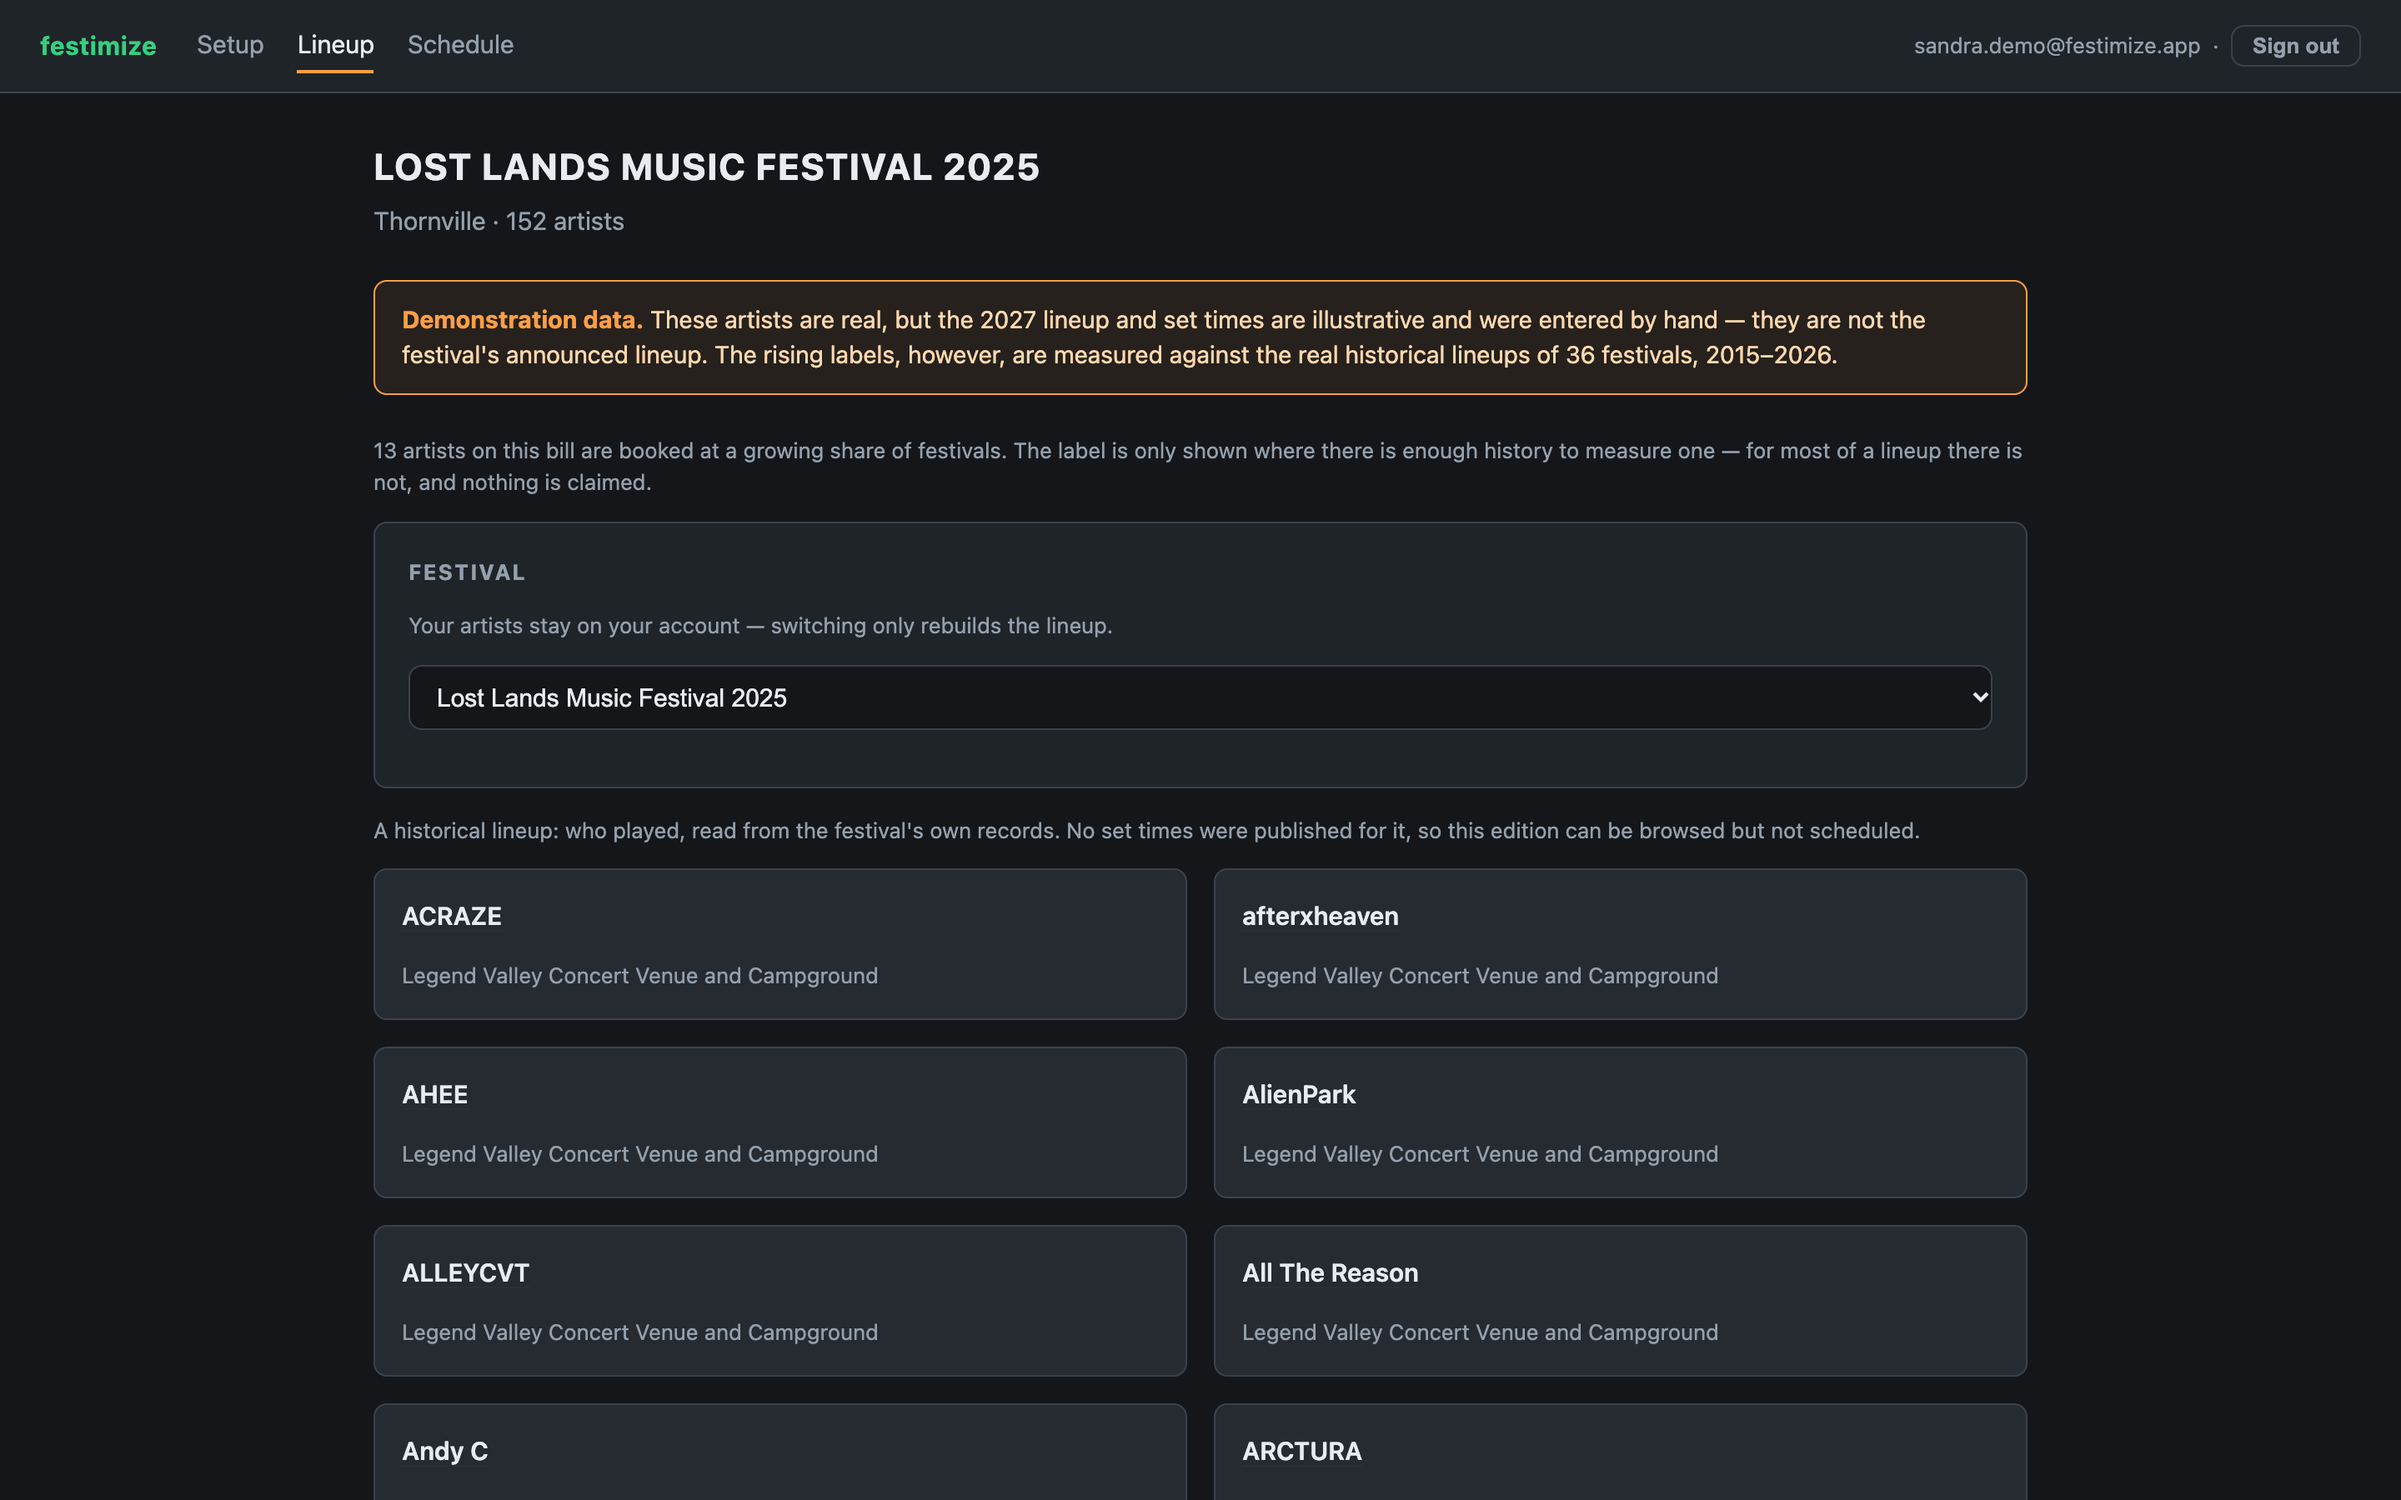
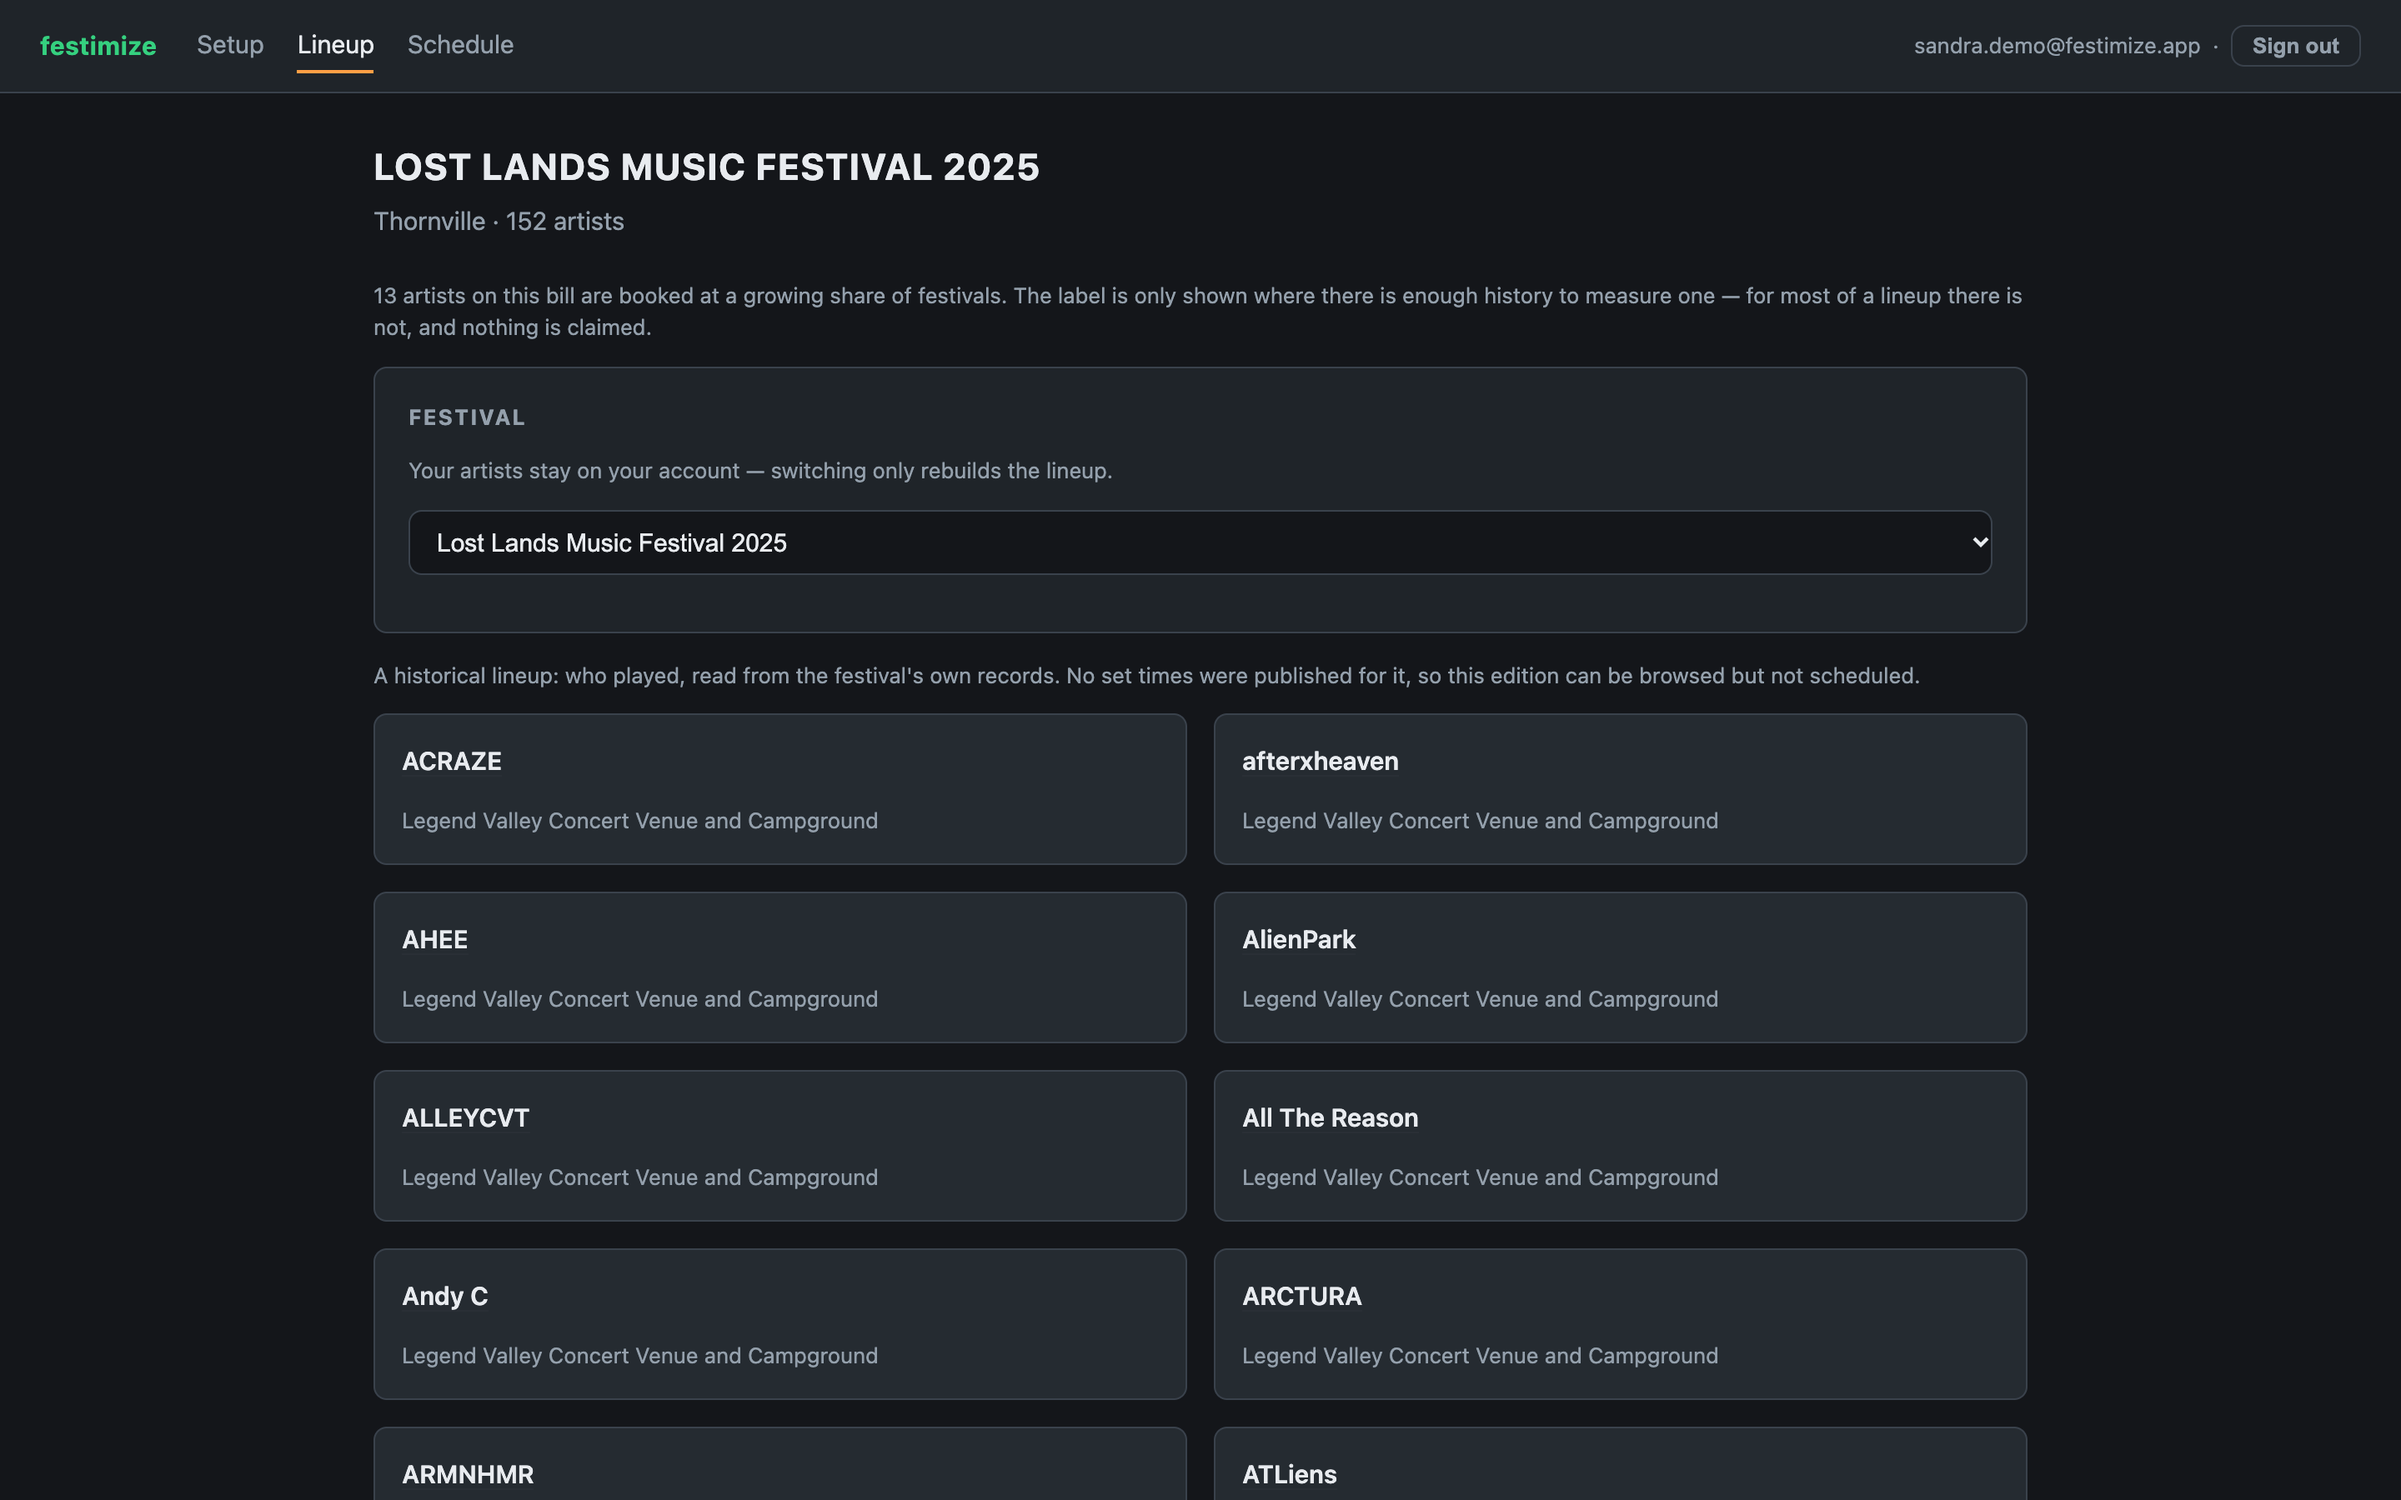
The demonstration-data notice belongs only on demonstration data
It was printed on every lineup, including the 331 historical editions the
corpus added — so a real 2025 bill read from the festival's own records
carried a banner saying its 2027 lineup and set times were illustrative and
entered by hand. Both halves of that were false. It now shows only where
there are set times, which is only the three hand-entered editions.

Found in the Implementation Proof rather than in the app: three pages of it
were the same screen with different content, and reading them side by side
is what made the stray banner obvious.

diff --git a/app/src/main/resources/templates/lineup.html b/app/src/main/resources/templates/lineup.html
@@ -11,7 +11,7 @@
         <span th:text="${artistCount}">0</span> artists
     </p>
 
-    <p class="demo-note">
+    <p class="demo-note" th:if="${timed}">
         <strong>Demonstration data.</strong> These artists are real, but the 2027 lineup and set times are
         illustrative and were entered by hand — they are not the festival's announced lineup. The rising
         labels, however, are measured against the real historical lineups of 36 festivals, 2015–2026.
